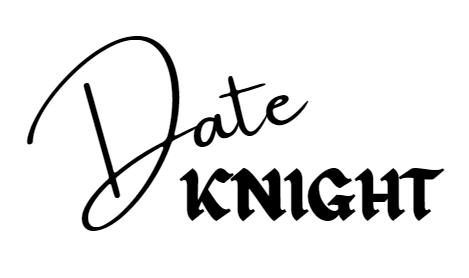
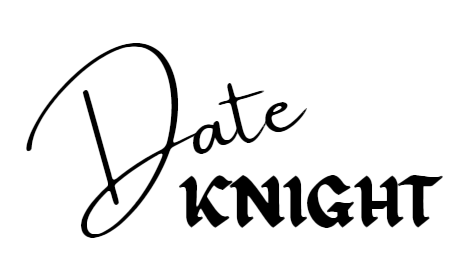
Added Footer, made final scss adjustments.

Changed region(s): [[0.0299, 0.1151, 0.6567, 0.8633], [0.3881, 0.6043, 0.9552, 0.8345]]

diff --git a/src/components/Hero/Hero.js b/src/components/Hero/Hero.js
@@ -1,11 +1,20 @@
 import './Hero.scss'
-import HeroImg from '../../assets/images/thedateknight.png'
+import Knight from '../../assets/images/thedateknight.png'
+import HeroText from '../../assets/images/herotext.PNG'
 
 
 function Hero() {
     return (
         <div className='hero'>
-            <img className='hero__image' src={HeroImg} alt='date knight hero img'/>
+            <img className='hero__header' src={HeroText} alt='Date Knight text'/>
+            <div className='hero__container'>
+                <div className='hero__descContainer'>
+                    <p className='hero__description'>A custom date builder and date generator, together</p>
+                    <p className='hero__description'>Choose your food, activity and dress code</p>
+                    <p className='hero__description'>Go have fun together</p>
+                </div>
+                <img className='hero__image' src={Knight} alt='date knight hero img'/>
+            </div>
         </div>
     )
 }

diff --git a/src/components/Hero/Hero.scss b/src/components/Hero/Hero.scss
@@ -1,12 +1,30 @@
+@use '../../partials/variables' as *;
+
 .hero {
     width: 100%;
-    height: 80vh;
-    background-color: white;
+    background-color: cornsilk;
     display: flex;
-    justify-content: center;
-    align-items: flex-start;
+    flex-direction: column;
+    justify-content: space-between;
+    &__header {
+        max-width: 30rem;
+        height: auto;
+        margin-bottom: 2rem;
+    }
+    &__container {
+        display: flex;
+        width: 100%;
+        justify-content: space-between;
+    }
+    &__descContainer {
+        padding: 0 1rem 0 2rem;
+    }
+    &__description {
+        font-size: 1.1rem;
+    }
     &__image {
         max-width: 100%;
         height: auto;
+        margin: 0 1rem 1rem 0;
     }
 }

diff --git a/src/pages/Main/Main.js b/src/pages/Main/Main.js
@@ -3,6 +3,7 @@ import Hero from '../../components/Hero/Hero'
 import Food from '../../components/Food/Food'
 import Events from '../../components/Events/Events'
 import Attire from '../../components/Attire/Attire'
+import Footer from '../../components/Footer/Footer'
 
 function Main() {
     return (
@@ -11,6 +12,7 @@ function Main() {
             <Food/>
             <Events/>
             <Attire/>
+            <Footer/>
         </>
     )
 }

diff --git a/src/components/Attire/Attire.scss b/src/components/Attire/Attire.scss
@@ -31,7 +31,7 @@
     }
     &__randomIcon{
         background-color: $jet;
-        height: 4rem;
+        height: 3rem;
         margin-left: 1rem;
     }
     &__dropdownContent{
@@ -67,5 +67,6 @@
         color: white;
         font-size: 1.2rem;
         text-align: center;
+        padding: 0 2rem;
     }
 }

diff --git a/src/components/Events/Events.scss b/src/components/Events/Events.scss
@@ -31,7 +31,7 @@
     }
     &__randomIcon{
         background-color: $jet;
-        height: 4rem;
+        height: 3rem;
         margin-left: 1rem;
     }
     &__dropdownContent{
@@ -67,5 +67,6 @@
         color: white;
         font-size: 1.2rem;
         text-align: center;
+        padding: 0 2rem;
     }
 }

diff --git a/src/components/Food/Food.scss b/src/components/Food/Food.scss
@@ -31,7 +31,7 @@
     }
     &__randomIcon{
         background-color: $jet;
-        height: 4rem;
+        height: 3rem;
         margin-left: 1rem;
     }
     &__dropdownContent{
@@ -66,5 +66,6 @@
         color: white;
         font-size: 1.2rem;
         text-align: center;
+        padding: 0 2rem;
     }
 }

diff --git a/src/components/Footer/Footer.scss b/src/components/Footer/Footer.scss
@@ -1,0 +1,12 @@
+@use '../../partials/variables' as *;
+
+.footer {
+    width: 100%;
+    background-color: $primary;
+    &__text {
+        margin: 0;
+        padding: 0.2rem 1rem;
+        font-size: 0.8rem;
+        color: cornsilk
+    }
+}

diff --git a/src/components/Footer/Footer.js b/src/components/Footer/Footer.js
@@ -1,0 +1,11 @@
+import './Footer.scss'
+
+function Footer() {
+    return(
+    <div className='footer'>
+        <p className='footer__text'>Made with React, character by @amberozolsart</p>
+    </div>
+    )
+}
+
+export default Footer;

diff --git a/src/App.js b/src/App.js
@@ -1,4 +1,4 @@
-import './App.css';
+import './App.scss';
 import { BrowserRouter, Routes, Route } from 'react-router-dom';
 import Main from './pages/Main/Main';
 

diff --git a/src/App.scss b/src/App.scss
@@ -1,0 +1,1 @@
+@use './partials/global'

diff --git a/src/partials/_global.scss b/src/partials/_global.scss
@@ -1,0 +1,3 @@
+body {
+   
+}
